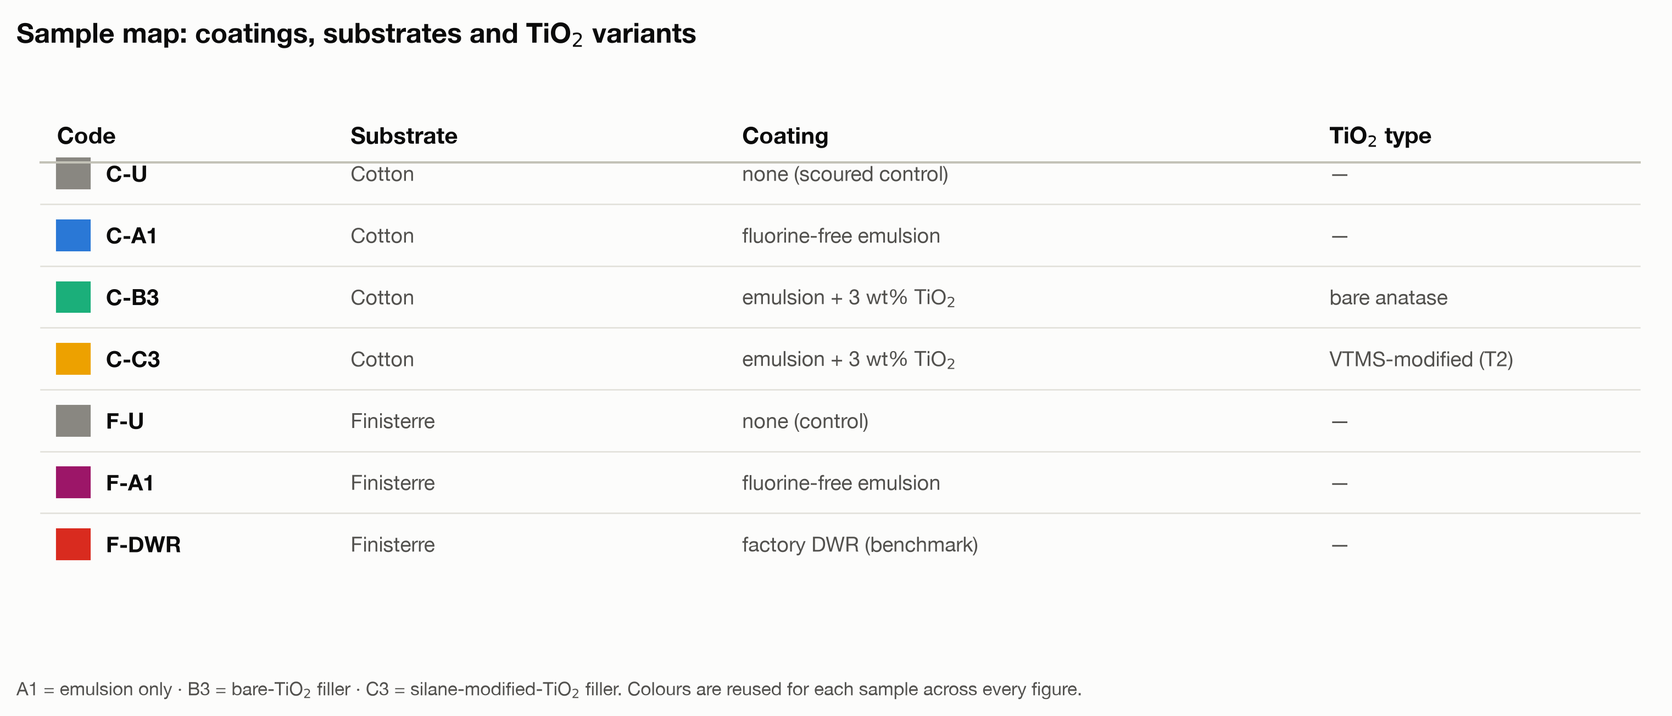
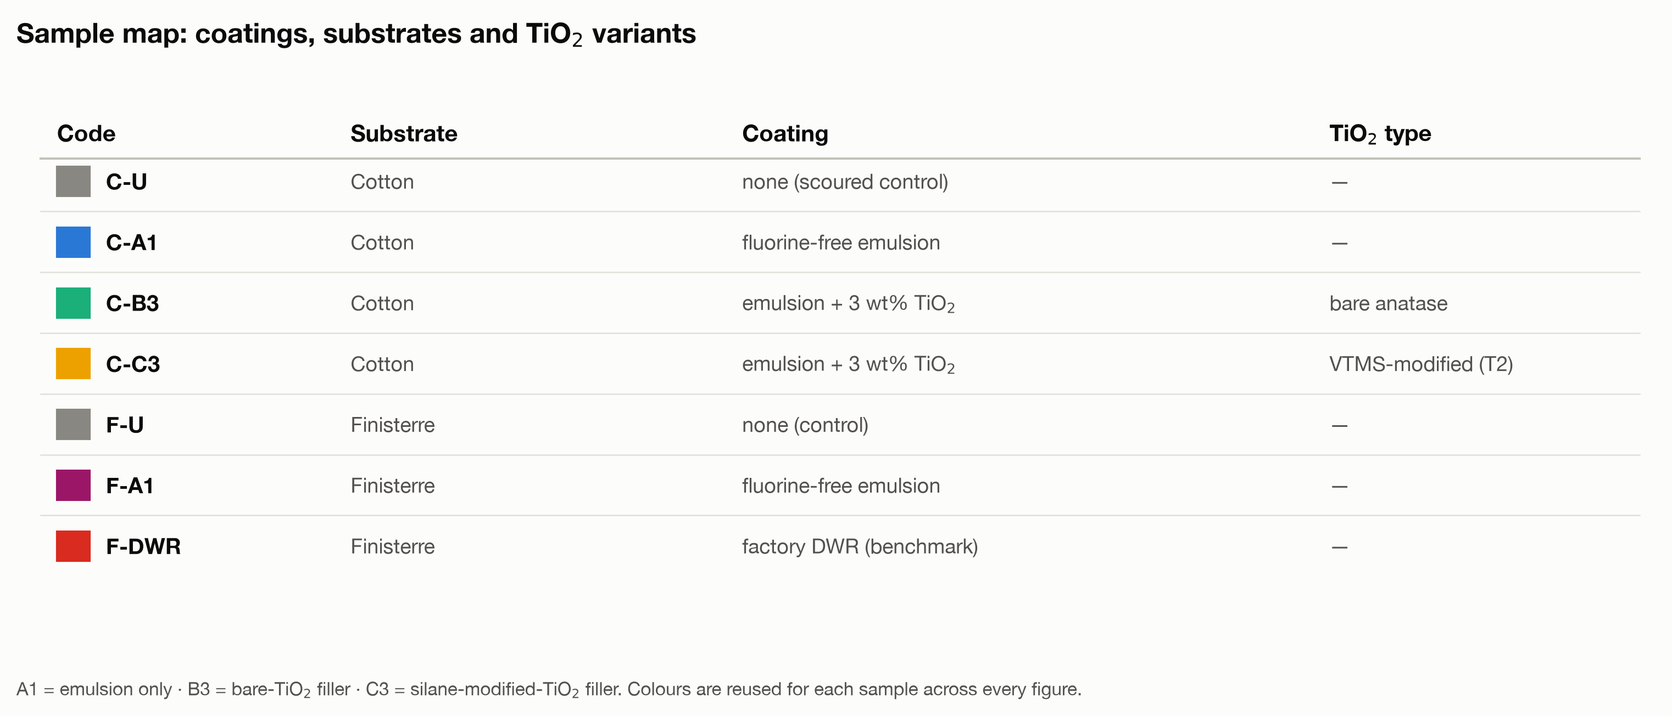
Fix figure layout overlaps and republish the figure set
Panel letters were positioned at -0.06 in axes-fraction x, i.e. 6% of the
panel width, so on narrow panels they landed on top of the y tick labels.
They are now placed after layout from the measured tick-label extents.

Also fixed: the fig24 grit caption sat on the burned-in instrument strip;
fig23 had colliding value labels and traces running through both
annotations; the fig14 colour chip crossed the header rule. Long
single-line footnotes were expanding savefig's tight bbox sideways, so
seven figures saved 7-58% wider than their figsize with the panels
squashed - footnotes now wrap to the figure width.

fig03 also gained the F-DWR mean roll-off label (57 degrees) that panel a
was missing, matching the value already quoted in the results copy.

Carries the unpublished 24 Jul copy pass on all three pages (tense moved
from "results to come" to testing complete, plainer wording), and updates
14 stale img width/height attributes to the new figure dimensions.

diff --git a/results.html b/results.html
@@ -2,7 +2,7 @@
 <!-- ============================================================
   Fluorine-Free DWR - RESULTS (click-in page from the Lab section)
   Reuses styles.css + site.js. Real data, honest framing.
-  HOUSE STYLE: no em dashes. Numbers are preliminary, not final.
+  HOUSE STYLE: no em dashes. Numbers are final as of 22 Jul 2026.
 ============================================================ -->
 <html lang="en">
 <head>
@@ -109,8 +109,8 @@
     <section class="section" id="samples">
       <div class="wrap">
         <p class="eyebrow reveal">The samples</p>
-        <h2 class="mid reveal">Seven coatings, two fabrics.</h2>
-        <p class="reveal">Everything is compared on the same footing: plain cotton and Finisterre's own fabric, each with an uncoated control, my emulsion on its own, and the emulsion loaded with titanium dioxide. Finisterre's commercial DWR finish is the benchmark I am trying to match.</p>
+        <h2 class="mid reveal">Seven samples, two fabrics.</h2>
+        <p class="reveal">Everything is compared on the same footing. Both fabrics, plain cotton and Finisterre's own, have an uncoated control and a swatch of my emulsion on its own. On cotton I also ran two titanium dioxide loadings. Finisterre's commercial DWR finish is the benchmark I am trying to match.</p>
         <ul class="takeaways reveal">
           <li><b>C-U / F-U.</b> Uncoated cotton and uncoated Finisterre, the controls.</li>
           <li><b>A1.</b> My emulsion only, no particles.</li>
@@ -143,7 +143,7 @@
       </div>
       <div class="wrap fig-block">
         <figure class="figure reveal">
-          <div class="frame"><img src="assets/figures/fig02_wca.png" width="3559" height="1265" loading="lazy" decoding="async" alt="Water contact angle versus time for each sample, with initial angle per sample. Coatings hold around 130 degrees; uncoated Finisterre wets." /></div>
+          <div class="frame"><img src="assets/figures/fig02_wca.png" width="3203" height="1259" loading="lazy" decoding="async" alt="Water contact angle versus time for each sample, with initial angle per sample. Coatings hold around 130 degrees; uncoated Finisterre wets." /></div>
           <figcaption>
             <p class="fig-take">All three cotton coatings bead water as well as the commercial DWR.</p>
             <details class="more"><summary>More detail</summary>
@@ -154,7 +154,7 @@
           </figcaption>
         </figure>
         <ul class="takeaways reveal" style="margin-top:1.8rem;">
-          <li><b>The honest caveat.</b> Static contact angle does not separate the two particle treatments, bare versus silane-treated. If the silane helps, it should show up in shedding and durability, not here.</li>
+          <li><b>One limit of this test.</b> Static contact angle does not separate the two particle treatments, bare versus silane-treated. If the silane helps, it should show up in shedding and durability, not here.</li>
           <li><b>A corrected control.</b> An early reading put uncoated cotton near 110&#176;, but that was a measurement artefact: the software had locked onto a droplet perched across the weave. Re-measured, uncoated cotton wets out at about 39&#176;, so the coated fabrics sit roughly 95&#176; above their own baseline.</li>
         </ul>
       </div>
@@ -165,11 +165,11 @@
       <div class="wrap">
         <p class="eyebrow reveal">Shedding</p>
         <h2 class="big reveal">Beading is not the same as shedding.</h2>
-        <p class="reveal" style="margin-top:1.1rem;max-width:60ch;">This is the honest part. A high contact angle means a drop <em>sits</em> as a bead, but roll-off angle asks the harder question: does it actually run off a tilted surface? Here the commercial finish is still ahead.</p>
+        <p class="reveal" style="margin-top:1.1rem;max-width:60ch;">A high contact angle means a drop <em>sits</em> as a bead, but roll-off angle asks the harder question: does it actually run off a tilted surface? Here the commercial finish is still ahead of mine.</p>
       </div>
       <div class="wrap fig-block">
         <figure class="figure reveal">
-          <div class="frame"><img src="assets/figures/fig03_rolloff.png" width="2866" height="1219" loading="lazy" decoding="async" alt="Roll-off angle before wash with a small droplet versus after wash with a larger droplet. Only the commercial DWR sheds small droplets." /></div>
+          <div class="frame"><img src="assets/figures/fig03_rolloff.png" width="2904" height="1219" loading="lazy" decoding="async" alt="Roll-off angle before wash with a small droplet versus after wash with a larger droplet. Only the commercial DWR sheds small droplets." /></div>
           <figcaption>
             <p class="fig-take">Fresh coatings bead but do not shed. Only the commercial DWR rolls a small droplet.</p>
             <details class="more"><summary>More detail</summary>
@@ -211,11 +211,11 @@
       </div>
       <div class="wrap fig-block">
         <figure class="figure reveal">
-          <div class="frame"><img src="assets/figures/fig17_durability_rolloff.png" width="2860" height="1249" loading="lazy" decoding="async" alt="Roll-off angle across abrasion cycles (0 to 200) and wash cycles (0 to 20). Abrasion degrades no coating; washing raises roll-off for every coating, the commercial DWR fastest." /></div>
+          <div class="frame"><img src="assets/figures/fig17_durability_rolloff.png" width="2897" height="1249" loading="lazy" decoding="async" alt="Roll-off angle across abrasion cycles (0 to 200) and wash cycles (0 to 20). Abrasion degrades no coating; washing raises roll-off for every coating, the commercial DWR fastest." /></div>
           <figcaption>
             <p class="fig-take">Abrasion degrades nothing. Washing weakens every coating, the commercial finish fastest.</p>
             <details class="more"><summary>More detail</summary>
-              <div class="more-body"><p>Two hundred abrasion cycles degrade none of my coatings: roll-off drifts down rather than up. I do not read that as the coating improving, because the samples that fell furthest are the ones that started highest (r = 0.97), and repeated measurements tend to drift back toward the middle. The fair comparison is on the same fabric: fresh, the commercial finish clearly beats my emulsion on Finisterre (<b>24&#176; against 59&#176;</b>); after 200 cycles the two read about the same (31&#176; against 27&#176;). Washing is the clearer result: over 20 cycles roll-off rises for every sample, and the commercial DWR degrades fastest and most steadily, <b>about 2.6&#176; per wash</b>, the steadiest trend in the whole dataset. My cotton coatings finish 20 washes near where they started.</p>
+              <div class="more-body"><p>Two hundred abrasion cycles degrade none of my coatings: roll-off drifts down rather than up. I do not read that as the coating improving, because the samples that fell furthest are the ones that started highest (r = 0.97), and repeated measurements tend to drift back toward the middle. The fair comparison is on the same fabric: fresh, the commercial finish clearly beats my emulsion on Finisterre (<b>24&#176; against 59&#176;</b>); after 200 cycles the two read about the same (31&#176; against 27&#176;). Washing is the clearer result: over 20 cycles roll-off rises for every sample, and the commercial DWR degrades fastest, <b>about 2.6&#176; per wash</b>, and it is the steadiest trend in the whole dataset. My cotton coatings finish 20 washes near where they started.</p>
                 <span class="src">Source: fig17, ROA_durability_long.csv, abrasion 0 to 200 and wash 0 to 20, 6 to 14 Jul 2026, n = 3</span>
               </div>
             </details>
@@ -232,7 +232,7 @@
           <figcaption>
             <p class="fig-take">Washed swatches pin the drop. Abraded ones shed it easily.</p>
             <details class="more"><summary>More detail</summary>
-              <div class="more-body"><p>A droplet placed on a swatch, then the surface tilted until the droplet either rolls away or stays pinned. The difference between the two durability tests is easy to see: on the washed swatches (W20) the droplet flattens, grips the fibres and holds on, while on the abraded ones (AB200) it stays beaded and rolls off. That is the same story the chart above tells, washing is what wears these coatings out, not rubbing. These clips were filmed after the full test series had finished, on the same end-point swatches, so they are an illustration of the effect rather than a measurement; the measured results are in the charts.</p>
+              <div class="more-body"><p>A droplet placed on a swatch, then the surface tilted until the droplet either rolls away or stays pinned. The difference between the two durability tests is easy to see: on the washed swatches (W20) the droplet flattens, grips the fibres and holds on, while on the abraded ones (AB200) it stays beaded and rolls off. That is the same story the chart above tells: washing is what wears these coatings out, not rubbing. These clips were filmed after the full test series had finished, on the same end-point swatches, so they are an illustration of the effect rather than a measurement; the measured results are in the charts.</p>
                 <span class="src">Roll-off demonstration, filmed after testing concluded, 14 Jul 2026. Illustrative only, not a measured result.</span>
               </div>
             </details>
@@ -240,11 +240,11 @@
         </figure>
 
         <figure class="figure reveal">
-          <div class="frame"><img src="assets/figures/fig18_durability_wca.png" width="2859" height="1249" loading="lazy" decoding="async" alt="Water contact angle across wash and abrasion cycles. The cotton coatings hold their contact angle throughout." /></div>
+          <div class="frame"><img src="assets/figures/fig18_durability_wca.png" width="2895" height="1249" loading="lazy" decoding="async" alt="Water contact angle across wash and abrasion cycles. The cotton coatings hold their contact angle throughout." /></div>
           <figcaption>
             <p class="fig-take">Contact angle barely moves through 20 washes and 200 abrasion cycles.</p>
             <details class="more"><summary>More detail</summary>
-              <div class="more-body"><p>The cotton coatings hold a contact angle of about 120 to 142&#176; across twenty washes and two hundred abrasion cycles. Washing trims the angle slightly; abrasion, if anything, nudges it up. This shows the coating survives washing and abrasion rather than washing or rubbing off. Contact angle called every sample unchanged while roll-off moved by 20 to 50&#176;, so judging a finish on contact angle alone would have missed all of this.</p>
+              <div class="more-body"><p>The cotton coatings hold a contact angle of about 120 to 142&#176; across twenty washes and two hundred abrasion cycles. Washing trims the angle slightly; abrasion, if anything, nudges it up. So the coating is surviving both tests rather than washing or rubbing off. Contact angle called every sample unchanged while roll-off moved by 20 to 50&#176;, so judging a finish on contact angle alone would have missed all of this.</p>
                 <span class="src">Source: fig18, WCA_durability_long_mean.csv, wash 0 to 20 and abrasion 0 to 200, 29 Jun to 14 Jul 2026, n = 3</span>
               </div>
             </details>
@@ -252,7 +252,7 @@
         </figure>
 
         <figure class="figure reveal">
-          <div class="frame"><img src="assets/figures/fig21_sem_durability_x100.jpg" width="2400" height="1920" loading="lazy" decoding="async" alt="Electron microscope survey of each coating at baseline, after 20 washes and after 200 abrasion cycles. Washing leaves the weave intact; abrasion frays the cotton yarns." /></div>
+          <div class="frame"><img src="assets/figures/fig21_sem_durability_x100.jpg" width="2400" height="2936" loading="lazy" decoding="async" alt="Electron microscope survey of each coating at baseline, after 20 washes and after 200 abrasion cycles. Washing leaves the weave intact; abrasion frays the cotton yarns." /></div>
           <figcaption>
             <p class="fig-take">Under the microscope, washing leaves the weave intact. Abrasion frays the cotton.</p>
             <details class="more"><summary>More detail</summary>
@@ -264,7 +264,7 @@
         </figure>
 
         <figure class="figure reveal">
-          <div class="frame"><img src="assets/figures/fig23_edx_durability_track.png" width="5290" height="1442" loading="lazy" decoding="async" alt="Titanium and silicon content from EDX at baseline, after 20 washes and after 200 abrasion cycles, per coating." /></div>
+          <div class="frame"><img src="assets/figures/fig23_edx_durability_track.png" width="3384" height="1434" loading="lazy" decoding="async" alt="Titanium and silicon content from EDX at baseline, after 20 washes and after 200 abrasion cycles, per coating." /></div>
           <figcaption>
             <p class="fig-take">The coating chemistry stays on the fibre. The silane-treated particles seem to hold on better through washing.</p>
             <details class="more"><summary>More detail</summary>
@@ -276,7 +276,7 @@
         </figure>
 
         <div class="status reveal" style="margin-top:1.8rem;">
-          <p><b>What this means.</b> Neither wash nor abrasion strips the coating off: the chemistry stays on the fibre through both. Washing is the shared weakness for shedding, and it is the commercial benchmark that degrades fastest there, while my cotton coatings end 20 washes close to where they began. None of this shows up in contact angle, which is why roll-off is the number to watch. With n = 3 these are consistent trends rather than firm statistics.</p>
+          <p><b>Where that leaves it.</b> Neither wash nor abrasion strips the coating off: the chemistry stays on the fibre through both. Washing is the shared weakness for shedding, and it is the commercial benchmark that degrades fastest there, while my cotton coatings end 20 washes close to where they began. None of this shows up in contact angle, which is why roll-off is the number to watch. With n = 3 these are consistent trends rather than firm statistics.</p>
         </div>
       </div>
     </section>
@@ -290,7 +290,7 @@
       </div>
       <div class="wrap fig-block">
         <figure class="figure reveal">
-          <div class="frame"><img src="assets/figures/fig07_edx_quant.png" width="3400" height="1382" loading="lazy" decoding="async" alt="Titanium and silicon tracer bars plus full elemental composition per sample from SEM-EDX." /></div>
+          <div class="frame"><img src="assets/figures/fig07_edx_quant.png" width="3444" height="1376" loading="lazy" decoding="async" alt="Titanium and silicon tracer bars plus full elemental composition per sample from SEM-EDX." /></div>
           <figcaption>
             <p class="fig-take">The titanium and silicon tracers confirm the particles and silane are on the fabric.</p>
             <details class="more"><summary>More detail</summary>
@@ -321,11 +321,11 @@
       <div class="wrap">
         <p class="eyebrow reveal">Chemistry</p>
         <h2 class="big reveal">The right bonds are there.</h2>
-        <p class="reveal" style="margin-top:1.1rem;max-width:60ch;">Infrared spectroscopy checks the chemistry rather than the elements. On the fabric it confirms the coating is deposited and has formed a siloxane network. On the titanium dioxide powder it is where I can actually see the silane grafting.</p>
+        <p class="reveal" style="margin-top:1.1rem;max-width:60ch;">Infrared spectroscopy checks the chemistry rather than the elements. On the fabric it confirms the coating is deposited and has formed a siloxane network. On the titanium dioxide powder it is where the silane grafting actually shows up.</p>
       </div>
       <div class="wrap fig-block">
         <figure class="figure reveal">
-          <div class="frame"><img src="assets/figures/fig04_ftir_textiles.png" width="3348" height="1395" loading="lazy" decoding="async" alt="Stacked ATR-FTIR spectra of the cotton and Finisterre sample series." /></div>
+          <div class="frame"><img src="assets/figures/fig04_ftir_textiles.png" width="3388" height="1395" loading="lazy" decoding="async" alt="Stacked ATR-FTIR spectra of the cotton and Finisterre sample series." /></div>
           <figcaption>
             <p class="fig-take">The coating chemistry is on the fibre.</p>
             <details class="more"><summary>More detail</summary>
@@ -338,7 +338,7 @@
       </div>
       <div class="wrap fig-block">
         <figure class="figure reveal">
-          <div class="frame"><img src="assets/figures/fig05_ftir_tio2.png" width="3329" height="1454" loading="lazy" decoding="async" alt="ATR-FTIR of the T0 to T3 titanium dioxide grafting series with a normalised organic window." /></div>
+          <div class="frame"><img src="assets/figures/fig05_ftir_tio2.png" width="3373" height="1454" loading="lazy" decoding="async" alt="ATR-FTIR of the T0 to T3 titanium dioxide grafting series with a normalised organic window." /></div>
           <figcaption>
             <p class="fig-take">Weak but real signs the silane grafted to the particles.</p>
             <details class="more"><summary>More detail</summary>
@@ -355,38 +355,38 @@
     <section class="section" id="deeper" style="border-top:1px solid var(--line);">
       <div class="wrap">
         <p class="eyebrow reveal">Digging deeper</p>
-        <h2 class="mid reveal">Supporting structure and corroboration.</h2>
-        <p class="reveal">These back up the headline results: an independent check on the titanium signal, the particle and coating morphology under the microscope, and the smaller supporting measurements.</p>
+        <h2 class="mid reveal">The measurements behind the headline results.</h2>
+        <p class="reveal">These back up the main findings: an independent check on the titanium signal, the particle and coating morphology under the microscope, and the smaller measurements behind the method choices.</p>
       </div>
       <div class="wrap">
         <div class="fig-grid">
           <figure class="figure reveal">
-            <div class="frame"><img src="assets/figures/fig09_xrf.png" width="3133" height="1011" loading="lazy" decoding="async" alt="XRF survey spectra per sample; the titanium signal tracks added titanium dioxide." /></div>
+            <div class="frame"><img src="assets/figures/fig09_xrf.png" width="3133" height="1005" loading="lazy" decoding="async" alt="XRF survey spectra per sample; the titanium signal tracks added titanium dioxide." /></div>
             <figcaption><span class="lead">XRF backs up the titanium.</span> A second, independent read that titanium tracks the added titanium dioxide on cotton. It cannot be used this way on Finisterre, because that fibre already contains titanium dioxide as a matting agent.
               <span class="src">Source: fig09, benchtop XRF</span>
             </figcaption>
           </figure>
           <figure class="figure reveal">
-            <div class="frame"><img src="assets/figures/fig12_sem_tio2.jpg" width="2400" height="1123" loading="lazy" decoding="async" alt="SEM of bare versus silane-modified anatase titanium dioxide powder morphology." /></div>
+            <div class="frame"><img src="assets/figures/fig12_sem_tio2.jpg" width="2400" height="1125" loading="lazy" decoding="async" alt="SEM of bare versus silane-modified anatase titanium dioxide powder morphology." /></div>
             <figcaption><span class="lead">Bare versus treated particles.</span> Under the SEM the silane-treated anatase looks finer and more even than the bare powder, which clumps into shards. This is the morphology behind the T2 choice.
               <span class="src">Source: fig12, SEM of TiO2 powders</span>
             </figcaption>
           </figure>
           <figure class="figure reveal">
-            <div class="frame"><img src="assets/figures/fig11_sem_textiles_x2000.jpg" width="2400" height="829" loading="lazy" decoding="async" alt="High magnification SEM of the coating on Finisterre fibre." /></div>
+            <div class="frame"><img src="assets/figures/fig11_sem_textiles_x2000.jpg" width="2400" height="833" loading="lazy" decoding="async" alt="High magnification SEM of the coating on Finisterre fibre." /></div>
             <figcaption><span class="lead">The coating on the fibre.</span> High-magnification SEM of the coated Finisterre fabric, showing the coating's texture on the fibre surface.
               <span class="src">Source: fig11, SEM at x2000</span>
             </figcaption>
           </figure>
           <figure class="figure reveal">
-            <div class="frame"><img src="assets/figures/fig01_wet_pickup_addon.png" width="2747" height="1161" loading="lazy" decoding="async" alt="Wet pickup after padding and dry mass add-on after cure, per sample." /></div>
+            <div class="frame"><img src="assets/figures/fig01_wet_pickup_addon.png" width="2784" height="1161" loading="lazy" decoding="async" alt="Wet pickup after padding and dry mass add-on after cure, per sample." /></div>
             <figcaption><span class="lead">Comparable loadings.</span> Wet pickup after padding and dry mass gain after cure, confirming the coatings went on at controlled, comparable amounts so the comparison is fair.
               <span class="src">Source: fig01, wet pickup and dry add-on</span>
             </figcaption>
           </figure>
         </div>
         <figure class="figure reveal fig-block">
-          <div class="frame"><img src="assets/figures/fig13_tga.png" width="3133" height="1262" loading="lazy" decoding="async" alt="Thermogravimetric mass-loss curves for the titanium dioxide powder series." /></div>
+          <div class="frame"><img src="assets/figures/fig13_tga.png" width="3132" height="1255" loading="lazy" decoding="async" alt="Thermogravimetric mass-loss curves for the titanium dioxide powder series." /></div>
           <figcaption><span class="lead">A small thermal signal.</span> Thermogravimetry shows only a weak organic mass loss (around half a percent) on the treated powders, consistent with a thin grafted silane layer rather than bulk material.
             <span class="src">Source: fig13, TGA of TiO2 powders</span>
           </figcaption>

diff --git a/index.html b/index.html
@@ -2,8 +2,7 @@
 <!-- ============================================================
   Fluorine-Free DWR - single page (PFAS / Coating / Finisterre / Lab)
   Clean text hero, minimal line diagrams, autoplay drop video.
-  HOUSE STYLE: no em dashes. No final numbers; results are to come.
-  PRE-PUBLISH: replace TODO-EMAIL, set og:url + og:image, make QR.
+  HOUSE STYLE: no em dashes. Testing complete; numbers live on results.html.
 ============================================================ -->
 <html lang="en">
 <head>
@@ -57,10 +56,10 @@
     <section class="section" id="concept">
       <div class="wrap">
         <p class="eyebrow reveal">The problem</p>
-        <h2 class="big reveal">Almost every waterproof relies on harmful PFAS.</h2>
+        <h2 class="big reveal">Almost every waterproof has relied on harmful PFAS.</h2>
         <div class="lead-cols">
           <p class="reveal">The finish that makes rain bead off a jacket is almost always PFAS: per- and polyfluoroalkyl substances, better known as the "forever chemicals." Nothing else repels water and oil quite as well, so the outdoor industry has used them for years.</p>
-          <p class="reveal">The catch is that they barely break down. They build up in the environment and in us, are linked to health concerns, and are being phased out of textiles. I'm trying to match how well they work, with no fluorine at all.</p>
+          <p class="reveal">The catch is that they barely break down. They build up in the environment and in us, are linked to health concerns, and are being phased out of textiles. I set out to match how well they work, with no fluorine at all.</p>
         </div>
       </div>
     </section>
@@ -77,7 +76,7 @@
           <p class="reveal"><strong>The particle tweak.</strong> Bare anatase clumps together, so I treat it with a silane (vinyltrimethoxysilane) to help it spread evenly through the polymer and hold up better in sunlight.</p>
         </div>
         <p class="reveal" style="margin-top:1.4rem;max-width:54ch;">I make the polymer as a waterborne emulsion, mix in the particles, and put it on cotton by dip, pad and cure.</p>
-        <p class="reveal" style="margin-top:1rem;max-width:54ch;color:var(--ink-2);">None of these are PFAS, so they should be a slightly gentler choice than the forever chemicals. It is early though, and ongoing research will show how much better they really are.</p>
+        <p class="reveal" style="margin-top:1rem;max-width:54ch;color:var(--ink-2);">None of these are PFAS, so they avoid the persistence that makes the forever chemicals a problem. The point of the testing was to find out whether they could match PFAS on performance.</p>
       </div>
 
       <div class="wrap">
@@ -124,7 +123,7 @@
       <div class="section">
         <div class="wrap">
           <h3 class="mid reveal">Their fabric first, then my coating on it.</h3>
-          <p class="reveal" style="max-width:60ch;">I work with Finisterre, the Cornish outdoor brand. Their waterproofs have used PFAS-free repellents since 2018, so their fabric is the right benchmark: I characterise it as supplied, then put my coating on it and compare.</p>
+          <p class="reveal" style="max-width:60ch;">I work with Finisterre, the Cornish outdoor brand. Their waterproofs have used PFAS-free repellents since 2018, so their fabric is the right benchmark: I characterised it as supplied, then put my coating on it and compared.</p>
           <div class="hero-cta reveal" style="margin-top:1.6rem;">
             <a class="btn" href="finisterre.html">More on the collaboration</a>
           </div>
@@ -136,18 +135,18 @@
     <section class="section" id="lab">
       <div class="wrap">
         <p class="eyebrow reveal">In the lab</p>
-        <h2 class="big reveal">The results are in.</h2>
-        <p class="lede reveal" style="margin-top:1.2rem;">The programme is complete: repellency, shedding, and durability through 200 abrasion cycles and 20 washes, with the worn surfaces checked under the electron microscope. Here is what each test asked, with the numbers on the results page.</p>
+        <h2 class="big reveal">What the testing found.</h2>
+        <p class="lede reveal" style="margin-top:1.2rem;">Testing covered repellency, shedding, and durability through 200 abrasion cycles and 20 washes, with the worn surfaces checked under the electron microscope. What each test asked is below, and the numbers are on the results page.</p>
       </div>
 
       <div class="wrap">
         <ul class="methods">
           <li class="reveal"><span class="m-tag">Wetting</span><h4>Contact angle</h4><p>How spherical a droplet sits. The coatings hold about 130&#176;, level with the commercial finish.</p></li>
           <li class="reveal"><span class="m-tag">Shedding</span><h4>Spray and roll-off</h4><p>Whether water runs straight off a tilted surface.</p></li>
-          <li class="reveal"><span class="m-tag">Durability</span><h4>Abrasion and wash</h4><p>The one that really counts. 200 abrasion cycles did no harm; washing is the weak point for every coating.</p></li>
+          <li class="reveal"><span class="m-tag">Durability</span><h4>Abrasion and wash</h4><p>200 abrasion cycles did no harm. Washing is the weak point for every coating.</p></li>
           <li class="reveal"><span class="m-tag">Structure</span><h4>SEM-EDX, FTIR, XRF, TGA</h4><p>Checking the structure, the chemistry, and that the coating really is on the fibre.</p></li>
         </ul>
-        <p class="reveal" style="margin-top:1.6rem;color:var(--ink-2);max-width:54ch;">In short: the fluorine-free coatings bead water like the commercial benchmark and survive wear as well as it does. Fresh, they do not shed as well. Washing wears every coating down. And contact angle alone would have missed all of this.</p>
+        <p class="reveal" style="margin-top:1.6rem;color:var(--ink-2);max-width:54ch;">In short: the fluorine-free coatings bead water like the commercial benchmark and survive wear as well as it does, but fresh out of the bath they do not shed as well. Washing wears every coating down. None of that shows up in contact angle, which is the number most often reported.</p>
         <div class="hero-cta reveal" style="margin-top:1.6rem;">
           <a class="btn" href="results.html">See the results</a>
         </div>

diff --git a/finisterre.html b/finisterre.html
@@ -10,7 +10,7 @@
   <meta charset="utf-8" />
   <meta name="viewport" content="width=device-width, initial-scale=1" />
   <title>Finisterre &#183; Fluorine-Free Water-Repellent Coatings &#183; UCL Masters Research</title>
-  <meta name="description" content="Working with Finisterre, the Cornish outdoor brand, to test a fluorine-free water-repellent coating on their fabric: who they are, why they fit this project, and what their fabric shows so far." />
+  <meta name="description" content="Working with Finisterre, the Cornish outdoor brand, to test a fluorine-free water-repellent coating on their fabric: who they are, why they fit this project, and what their fabric shows." />
   <meta property="og:title" content="Working with Finisterre &#183; Fluorine-Free DWR" />
   <meta property="og:description" content="Testing a fluorine-free water-repellent coating on real outdoor fabric from Finisterre." />
   <meta property="og:type" content="website" />
@@ -46,7 +46,7 @@
         <a class="backlink" href="index.html">&larr; Back to the project</a>
         <p class="eyebrow">The collaboration</p>
         <h1 class="big">Working with Finisterre.</h1>
-        <p class="lede">My coating needs real fabric to prove itself on. That fabric comes from Finisterre, the Cornish outdoor brand. This page is who they are, why they fit this project, and what their fabric shows so far.</p>
+        <p class="lede">My coating needs real fabric to prove itself on. That fabric comes from Finisterre, the Cornish outdoor brand. This page is who they are, why they fit this project, and what their fabric shows.</p>
       </div>
     </section>
 
@@ -59,7 +59,7 @@
           <p class="reveal">Finisterre started in 2003 above a surf shop in St Agnes, Cornwall, making kit for cold-water surfers. They have been a certified B Corp since 2018.</p>
           <p class="reveal">More to the point for this project: their waterproofs have used PFAS-free water repellents since 2018, well ahead of the restrictions now working through the EU. They write about that switch on <a href="https://finisterre.com/blogs/fabric-of-finisterre/pfas-free-water-repellents" target="_blank" rel="noopener">their own fabric pages</a>.</p>
         </div>
-        <p class="reveal" style="margin-top:1.4rem;max-width:60ch;color:var(--ink-2);">That is exactly what makes their fabric the right test bed. Their finish is a commercial, fluorine-free benchmark that already survives real use. If my coating is going to matter, it has to stand next to that.</p>
+        <p class="reveal" style="margin-top:1.4rem;max-width:60ch;color:var(--ink-2);">That is what makes their fabric the right test bed. Their finish is a commercial, fluorine-free benchmark that already survives real use. If my coating is going to matter, it has to stand next to that.</p>
       </div>
     </section>
 
@@ -81,7 +81,7 @@
       <div class="wrap">
         <p class="eyebrow reveal">The approach</p>
         <h2 class="mid reveal">Their fabric first, then my coating on it.</h2>
-        <p class="reveal" style="max-width:60ch;">I start by characterising their fabric as supplied, including how their current DWR finish behaves, so I have a proper baseline. Then I put my coating on the same fabric and compare against an untreated control, so any change is genuinely down to what I have made.</p>
+        <p class="reveal" style="max-width:60ch;">I characterised their fabric as supplied, including how their current DWR finish behaves, to give me a proper baseline. Then I put my coating on the same fabric and compared it against an untreated control, so any change is genuinely down to what I made.</p>
       </div>
       <div class="wrap">
         <div class="ba">
@@ -98,14 +98,14 @@
       </div>
     </section>
 
-    <!-- ===================== SO FAR ===================== -->
+    <!-- ===================== THE BASELINE ===================== -->
     <section class="section" id="sofar" style="border-top:1px solid var(--line);">
       <div class="wrap">
-        <p class="eyebrow reveal">So far</p>
+        <p class="eyebrow reveal">The baseline</p>
         <h2 class="mid reveal">What their fabric shows.</h2>
         <div class="parts">
           <p class="reveal"><strong>Their finish beads well.</strong> A droplet on their DWR fabric sits at about 132 degrees, right alongside what my coatings reach on cotton.</p>
-          <p class="reveal"><strong>It sheds even better.</strong> On roll-off, the test where a tilted drop has to actually leave, their finish is the best I have measured, around 24 degrees after a wash. My coatings bead just as well but do not shed as cleanly yet.</p>
+          <p class="reveal"><strong>It sheds even better.</strong> On roll-off, the test where a tilted drop has to actually leave, their finish is the best I have measured, around 24 degrees after a wash. My coatings bead just as well but do not shed as cleanly.</p>
           <p class="reveal"><strong>My emulsion works on their fabric too.</strong> The emulsion-only coating reaches about 107 degrees on their fabric, lower than on cotton. Untreated, their base fabric soaks water straight in.</p>
         </div>
         <div class="hero-cta reveal" style="margin-top:2rem;">
@@ -118,10 +118,10 @@
     <section class="section" id="back" style="border-top:1px solid var(--line);">
       <div class="wrap">
         <p class="eyebrow reveal">For Finisterre</p>
-        <h2 class="mid reveal">What I'll be providing Finisterre.</h2>
+        <h2 class="mid reveal">What Finisterre gets back.</h2>
         <ul class="deeper">
-          <li class="reveal"><b>My results</b> The findings in plain English, written for product and materials people rather than examiners, updated on this page as they come in.</li>
-          <li class="reveal"><b>A poster</b> A summary poster presenting what I've found.</li>
+          <li class="reveal"><b>My results</b> The findings in plain English, written for product and materials people rather than examiners. They are on the results page.</li>
+          <li class="reveal"><b>A poster</b> A summary of what I found.</li>
         </ul>
         <p class="reveal" style="margin-top:2rem;"><a class="btn ghost" href="mailto:jackson.brocklebank.25@ucl.ac.uk">Get in touch</a></p>
       </div>
